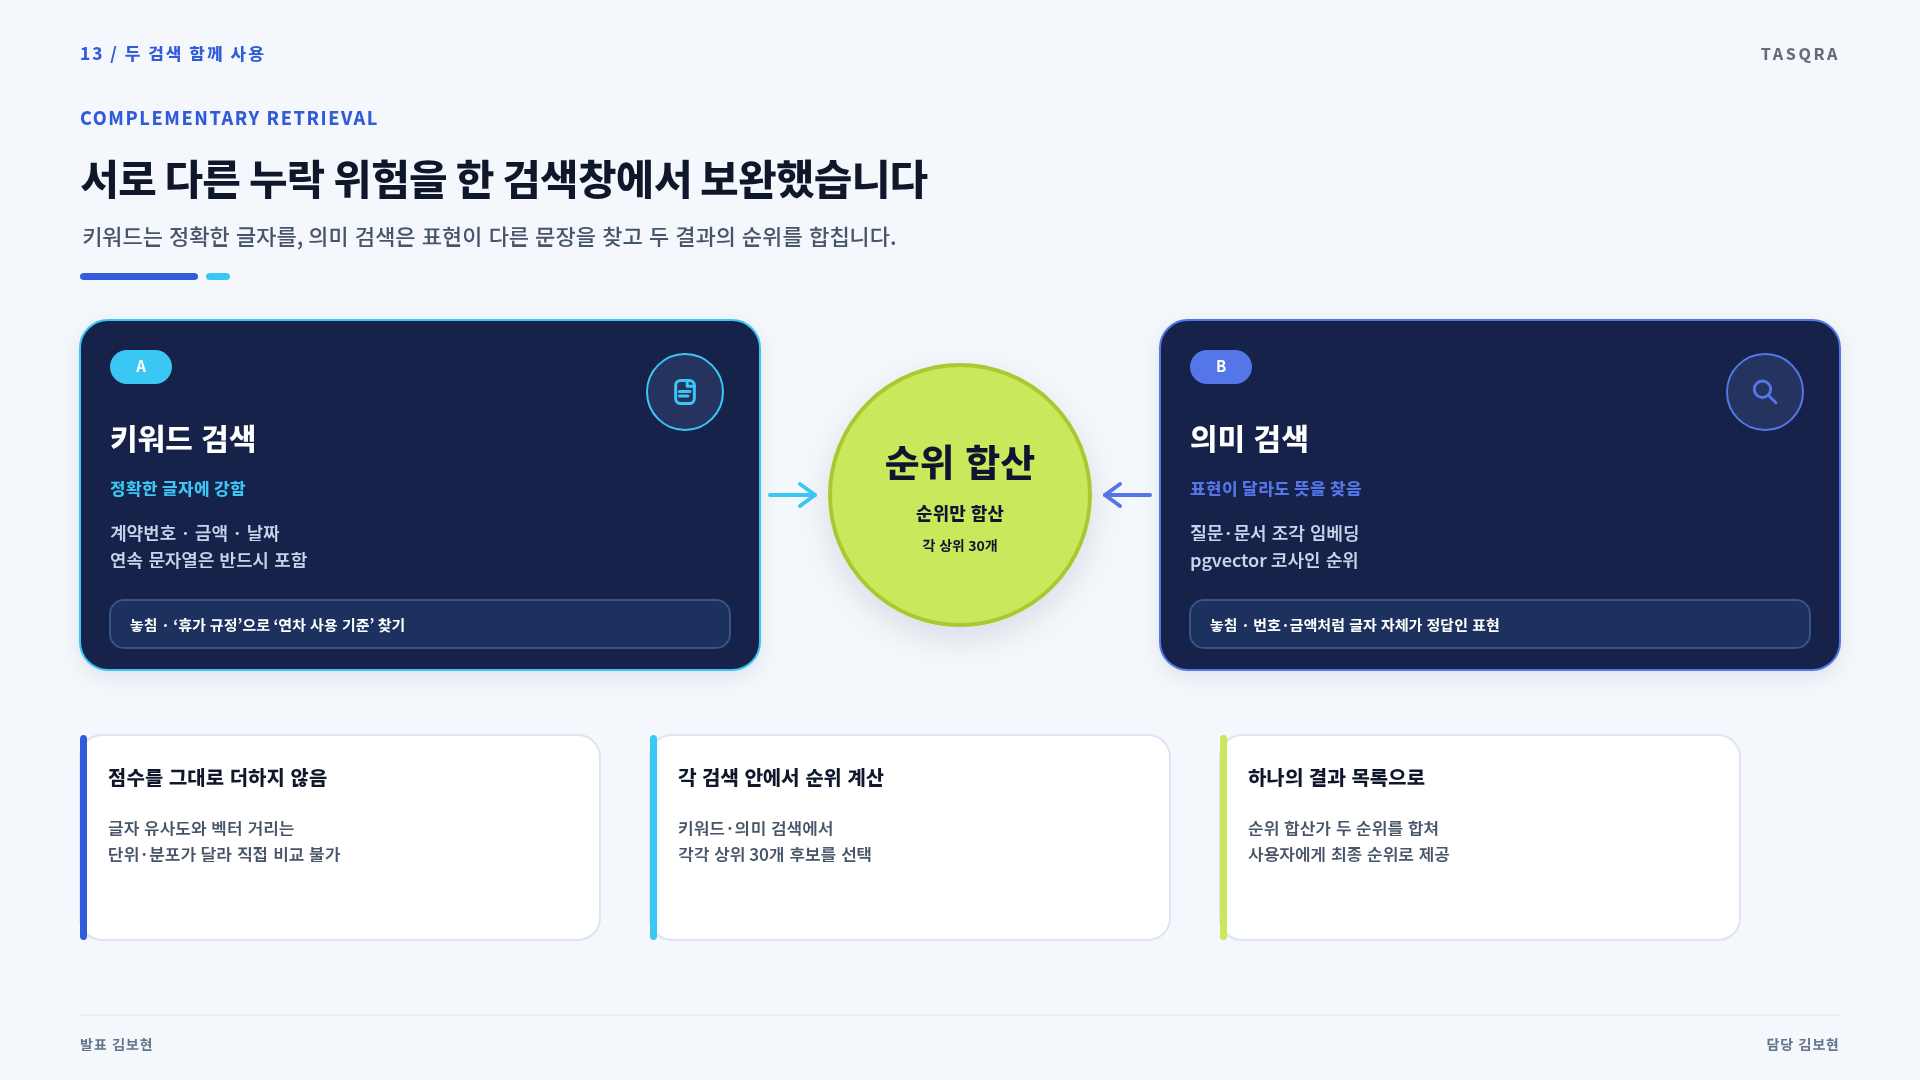
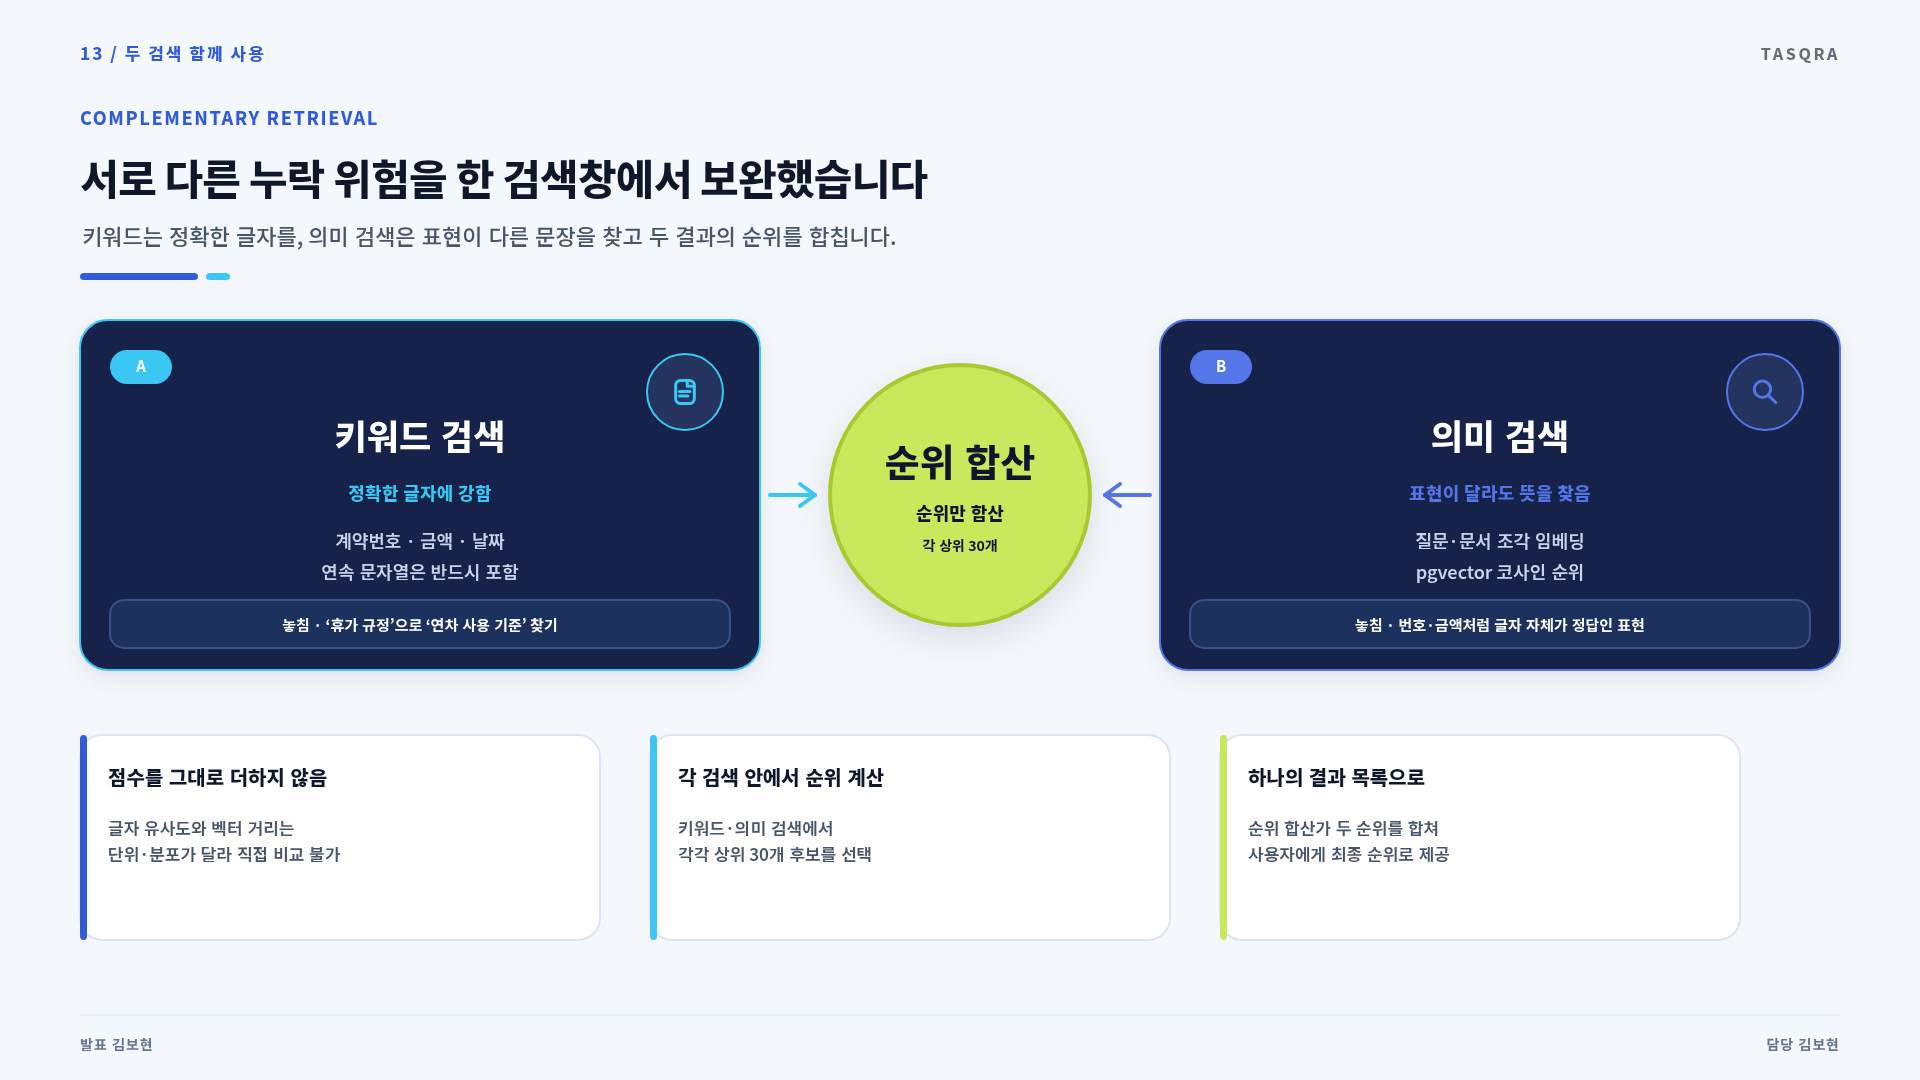
docs: 발표 카드 정렬과 전환 강조 조정

Changed region(s): [[0.0625, 0.3667, 0.2812, 0.5806], [0.625, 0.4889, 0.8438, 0.6111], [0.625, 0.3667, 0.8438, 0.4583]]

diff --git a/도구/pptx/build_final_presentation_29.py b/도구/pptx/build_final_presentation_29.py
@@ -186,7 +186,7 @@ def slide6():
     p.append(arrow(380, 575, 380, 610, C["blue"], 5))
     p.append(arrow(1080, 575, 1080, 610, C["cyan"], 5))
 
-    p.append(panel(110, 620, 540, 290, fill=C["panel"], stroke=C["blue"], rx=24, shadow=True))
+    p.append(panel(110, 620, 540, 315, fill=C["panel"], stroke=C["blue"], rx=24, shadow=True))
     p.append(pill(140, 645, 185, 38, "바로 끝나는 요청", C["soft_blue"], C["blue"], size=15))
     p.append(panel(165, 705, 430, 66, fill="#F8FAFD", stroke=C["blue2"], rx=16, shadow=False))
     p.append(text(190, 746, "SQLAlchemy  ·  트랜잭션과 데이터 접근", 18, 800, C["text"]))
@@ -194,19 +194,19 @@ def slide6():
     p.append(panel(165, 815, 430, 66, fill="#F8FAFD", stroke=C["lime"], rx=16, shadow=False))
     p.append(text(190, 856, "PostgreSQL  ·  업무 데이터와 pgvector", 18, 800, C["text"]))
 
-    p.append(panel(810, 620, 540, 290, fill=C["navy"], stroke=C["cyan"], rx=24, shadow=True))
+    p.append(panel(810, 620, 540, 315, fill=C["navy"], stroke=C["cyan"], rx=24, shadow=True))
     p.append(pill(840, 645, 190, 38, "오래 걸리는 작업", "#243866", C["cyan"], size=15))
     async_nodes = [
         (700, "Redis 대기열", "작업 등록 · 중단되어도 유지"),
-        (778, "Celery Worker", "OCR · 문서 나누기 · AI 분석"),
-        (856, "공유 자원", "PostgreSQL · 문서 파일 · AI 모델"),
+        (770, "Celery Worker", "OCR · 문서 나누기 · AI 분석"),
+        (840, "공유 자원", "PostgreSQL · 문서 파일 · AI 모델"),
     ]
     for y, heading, body in async_nodes:
         p.append(panel(850, y, 460, 58, fill="#1D315F", stroke="#3A5289" if heading != "공유 자원" else C["lime"], rx=14, shadow=False))
         p.append(text(875, y + 25, heading, 17, 800, "#FFFFFF"))
         p.append(text(1285, y + 25, body, 14, 600, "#C8D4EC", anchor="end"))
-        if y < 856:
-            p.append(arrow(1080, y + 61, 1080, y + 73, "#6F89BF", 3))
+        if y < 840:
+            p.append(arrow(1080, y + 61, 1080, y + 67, "#6F89BF", 3))
 
     # 선택 이유는 오른쪽 보조 열로 축소해 흐름보다 먼저 보이지 않게 한다.
     p.append(panel(1430, 300, 410, 650, fill=C["panel"], stroke=C["border"], rx=28, shadow=True))
@@ -373,11 +373,12 @@ def slide10():
         p.append(number_badge(x + 30, 350, no, accent, dark=True))
         p.append(circle(x + 605, 392, 38, "#24345F", stroke=accent, sw=2))
         p.append(icon(kind, x + 605, 392, 34, accent, 3))
-        p.append(text(x + 30, 450, heading, 30, 800, "#FFFFFF"))
-        p.append(text(x + 30, 495, strength, 17, 800, accent, spacing=.3))
-        p.append(multiline(x + 30, 540, body, 18, 600, "#C8D4EC", line_height=1.5))
+        p.append(text(x + 340, 450, heading, 35, 800, "#FFFFFF", anchor="middle"))
+        p.append(text(x + 340, 500, strength, 18, 800, accent, anchor="middle", spacing=.3))
+        for line_no, value in enumerate(body):
+            p.append(text(x + 340, 548 + line_no * 31, value, 18, 600, "#C8D4EC", anchor="middle"))
         p.append(panel(x + 30, 600, 620, 48, fill="#1D315F", stroke="#3A5289", rx=14, shadow=False))
-        p.append(text(x + 50, 631, miss, 15, 700, "#FFFFFF"))
+        p.append(text(x + 340, 631, miss, 15, 700, "#FFFFFF", anchor="middle"))
 
     # 점수의 단위가 다르므로 가운데에서는 순위만 사용한다.
     p.append(circle(960, 495, 130, C["lime"], stroke="#A9C932", sw=4, extra='filter="url(#shadow)"'))
@@ -579,11 +580,10 @@ def slide16():
         p.append(text(1400,y+38,head,23,800,"#FFFFFF"))
         p.append(text(1765,y+38,desc,18,700,"#D6DFF0",anchor="end"))
         p.append(text(1400,y+69,"모두 같은 확정본 사용",15,700,C["cyan"]))
-    p.append(panel(1275,744,550,54,fill=C["lime"],stroke="#A8C62A",rx=17,shadow=False))
-    p.append(text(1550,779,"모든 검토가 끝나면 확정본 교체",22,800,C["rail"],anchor="middle"))
-    p.append(arrow(1278,858,1625,858,C["lime"],9))
-    p.append(circle(1690,858,55,C["lime"],stroke="#A8C62A",sw=4))
-    p.append(text(1690,850,"동시",20,800,C["rail"],anchor="middle"));p.append(text(1690,880,"전환",20,800,C["rail"],anchor="middle"))
+    p.append(circle(1630,800,62,C["lime"],stroke="#A8C62A",sw=3))
+    p.append(text(1630,791,"동시",21,800,C["rail"],anchor="middle"));p.append(text(1630,822,"전환",21,800,C["rail"],anchor="middle"))
+    p.append(arrow(1278,800,1553,800,C["lime"],8))
+    p.append(text(1395,755,"모든 검토가 끝나면 확정본 교체",22,800,"#B9D33F",anchor="middle"))
     p.append(text(80,930,"재분석 중에도 기존 승인 데이터가 화면·QA·산출물에 계속 제공되며, 완료 순간에만 소비 기준이 한 번 바뀝니다.",18,700,C["muted"]))
     return finish(p)
 
